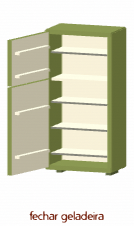
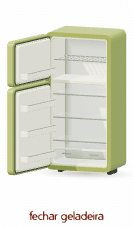
feat(geladeira): refinar materiais e interior e afastar a carta

diff --git a/Kimi_Agent_HIPOCAMPO 3D Interactive Site/hipocampo/public/assets/fridge-showcase.js b/Kimi_Agent_HIPOCAMPO 3D Interactive Site/hipocampo/public/assets/fridge-showcase.js
@@ -13,14 +13,14 @@ export function mountFridgeShowcase(figure) {
   label.textContent = 'abrir geladeira'
   button.append(label)
   figure.append(button)
-  let renderer, scene, camera, model, resize, observer, texture, frame = 0
+  let renderer, scene, camera, model, resize, observer, texture, environment, frame = 0
   let aspect = 1, projectedBounds = null
   let open = false, visible = false, angle = 0, target = 0, previous = 0, disposed = false
   const reduced = matchMedia('(prefers-reduced-motion: reduce)')
   const doors = [], geometries = new Set(), materials = new Set(), maps = new Set()
   const paint = () => {
     if (disposed || !renderer || !visible || document.hidden) return
-    const now = performance.now(), dt = previous ? Math.min((now - previous) / 1000, .05) : 1 / 60
+    const now = performance.now(), dt = previous ? Math.min((now - previous) / 1000, .12) : 1 / 60
     previous = now
     angle = reduced.matches ? target : angle + (target - angle) * (1 - Math.exp(-7 * dt))
     if (Math.abs(target - angle) < .002) angle = target
@@ -51,17 +51,72 @@ export function mountFridgeShowcase(figure) {
   }
   const request = () => { if (renderer && doors.length && !frame && visible && !document.hidden && !disposed) frame = requestAnimationFrame(() => { frame = 0; paint() }) }
   const material = options => { const m = new THREE.MeshStandardMaterial(options); materials.add(m); return m }
-  const green = material({ color: '#8d9b53', roughness: .36, metalness: .22 })
-  const cream = material({ color: '#eee9d4', roughness: .8 })
-  const chrome = material({ color: '#c3c5b8', roughness: .3, metalness: .65 })
-  const dark = material({ color: '#576139', roughness: .7 })
-  const box = (parent, w, h, d, mat, x = 0, y = 0, z = 0) => {
-    const geometry = new THREE.BoxGeometry(w, h, d)
-    geometries.add(geometry)
-    const mesh = new THREE.Mesh(geometry, mat)
-    mesh.position.set(x, y, z)
-    parent.add(mesh)
-    return mesh
+  // A fine, deterministic enamel finish, not an extra photographic replacement.
+  const grainData = new Uint8Array(96 * 96 * 4)
+  let seed = 9431
+  for (let i = 0; i < grainData.length; i += 4) {
+    seed = (seed * 1664525 + 1013904223) >>> 0
+    const v = 220 + (seed % 30)
+    grainData[i] = grainData[i + 1] = grainData[i + 2] = v; grainData[i + 3] = 255
+  }
+  const grain = new THREE.DataTexture(grainData, 96, 96, THREE.RGBAFormat)
+  grain.wrapS = grain.wrapT = THREE.RepeatWrapping; grain.needsUpdate = true; maps.add(grain)
+  const green = material({ color: '#89934a', roughness: .26, metalness: .17, bumpMap: grain, bumpScale: .003, envMapIntensity: .7 })
+  const cream = material({ color: '#e5dfc8', roughness: .43, bumpMap: grain, bumpScale: .002, envMapIntensity: .35 })
+  const chrome = material({ color: '#d4d4ca', roughness: .17, metalness: .92, envMapIntensity: 1.2 })
+  const dark = material({ color: '#383b2d', roughness: .82 })
+  const glass = material({ color: '#c8d4cc', roughness: .12, metalness: .2, transparent: true, opacity: .28, depthWrite: false })
+  const track = geometry => { geometries.add(geometry); return geometry }
+  const mesh = (parent, geometry, mat, x = 0, y = 0, z = 0) => {
+    const item = new THREE.Mesh(track(geometry), mat)
+    item.position.set(x, y, z); item.castShadow = mat !== glass; item.receiveShadow = true
+    parent.add(item); return item
+  }
+  const box = (parent, w, h, d, mat, x = 0, y = 0, z = 0) => mesh(parent, new THREE.BoxGeometry(w, h, d), mat, x, y, z)
+  const outline = (w, h, radius) => {
+    const r = Math.min(radius, w / 2, h / 2), x = -w / 2, y = -h / 2
+    const shape = new THREE.Shape()
+    shape.moveTo(x + r, y); shape.lineTo(x + w - r, y)
+    shape.quadraticCurveTo(x + w, y, x + w, y + r); shape.lineTo(x + w, y + h - r)
+    shape.quadraticCurveTo(x + w, y + h, x + w - r, y + h); shape.lineTo(x + r, y + h)
+    shape.quadraticCurveTo(x, y + h, x, y + h - r); shape.lineTo(x, y + r)
+    shape.quadraticCurveTo(x, y, x + r, y)
+    return shape
+  }
+  const rounded = (parent, w, h, d, radius, mat, x = 0, y = 0, z = 0) => {
+    const bevel = Math.min(.025, d / 3, radius / 2)
+    const g = new THREE.ExtrudeGeometry(outline(w - bevel * 2, h - bevel * 2, Math.max(.005, radius - bevel)), {
+      depth: d - bevel * 2, bevelEnabled: true, bevelSize: bevel, bevelThickness: bevel, bevelSegments: 3, curveSegments: 5, steps: 1,
+    })
+    g.translate(0, 0, -d / 2 + bevel)
+    return mesh(parent, g, mat, x, y, z)
+  }
+  const rim = (parent, w, h, d, radius, wall, mat, x = 0, y = 0, z = 0) => {
+    const shape = outline(w, h, radius)
+    shape.holes.push(new THREE.Path(outline(w - wall * 2, h - wall * 2, Math.max(.025, radius - wall)).getPoints(5).reverse()))
+    const g = new THREE.ExtrudeGeometry(shape, { depth: d, bevelEnabled: false, curveSegments: 5, steps: 1 })
+    g.translate(0, 0, -d / 2)
+    return mesh(parent, g, mat, x, y, z)
+  }
+  const rod = (parent, points, radius, mat) => mesh(parent, new THREE.TubeGeometry(new THREE.CatmullRomCurve3(points.map(p => new THREE.Vector3(...p))), 12, radius, 6, false), mat)
+  const facade = (parent, w, h, map, x, z) => {
+    const g = new THREE.ShapeGeometry(outline(w, h, .07), 8)
+    const positions = g.attributes.position, uv = g.attributes.uv
+    for (let i = 0; i < positions.count; i++) uv.setXY(i, (positions.getX(i) + w / 2) / w, (positions.getY(i) + h / 2) / h)
+    // Preserve the photographed patina and reflections on the front doors.
+    const face = new THREE.MeshBasicMaterial({ map, toneMapped: false })
+    materials.add(face); return mesh(parent, g, face, x, 0, z)
+  }
+  const makeEnvironment = () => {
+    const studio = new THREE.Scene(); studio.background = new THREE.Color('#a5ada4')
+    const white = new THREE.MeshBasicMaterial({ color: new THREE.Color(4, 4, 3.8), side: THREE.DoubleSide })
+    materials.add(white)
+    for (const [x, y, z, w, h] of [[-4, 2, 3, 3, 6], [3, 3, 1, 2, 5], [0, 5, -2, 5, 3]]) {
+      const panel = mesh(studio, new THREE.PlaneGeometry(w, h), white, x, y, z); panel.lookAt(0, 0, 0)
+    }
+    const pmrem = new THREE.PMREMGenerator(renderer)
+    environment = pmrem.fromScene(studio, .06)
+    scene.environment = environment.texture; pmrem.dispose()
   }
   const setSize = () => {
     if (!renderer) return
@@ -85,6 +140,8 @@ export function mountFridgeShowcase(figure) {
       renderer = new THREE.WebGLRenderer({ alpha: true, antialias: true, powerPreference: 'low-power' })
       renderer.setPixelRatio(Math.min(devicePixelRatio || 1, 1.25))
       renderer.outputColorSpace = THREE.SRGBColorSpace
+      renderer.toneMapping = THREE.ACESFilmicToneMapping; renderer.toneMappingExposure = 1.05
+      renderer.shadowMap.enabled = true; renderer.shadowMap.type = THREE.PCFSoftShadowMap
       renderer.setClearColor(0xffffff, 0)
       renderer.domElement.className = 'fridge-showcase-canvas'
       renderer.domElement.setAttribute('aria-hidden', 'true')
@@ -93,22 +150,69 @@ export function mountFridgeShowcase(figure) {
       camera = new THREE.OrthographicCamera(-1.5, 1.5, 2, -2, .1, 30)
       camera.position.set(2.5, 1.1, 7)
       camera.lookAt(0, 0, .35)
-      scene.add(new THREE.HemisphereLight(0xffffff, 0xb8b29d, 2.5))
-      const light = new THREE.DirectionalLight(0xffffff, 2.2)
-      light.position.set(-3, 5, 6); scene.add(light)
+      makeEnvironment()
+      scene.add(new THREE.HemisphereLight(0xe8efff, 0x716b52, .75))
+      const light = new THREE.DirectionalLight(0xfff1d9, 3)
+      light.position.set(-3, 5, 6); light.castShadow = true
+      light.shadow.mapSize.set(512, 512)
+      Object.assign(light.shadow.camera, { left: -3, right: 3, top: 4, bottom: -3, near: .5, far: 15 })
+      light.shadow.normalBias = .025; light.shadow.bias = -.00015
+      scene.add(light)
+      const fill = new THREE.DirectionalLight(0xc9dcff, .5); fill.position.set(3, 1, 1); scene.add(fill)
       const body = new THREE.Group(); model = body; scene.add(body)
-      box(body, 1.5, 3, .13, green, 0, 0, -.38)
-      box(body, .1, 3, .9, green, -.72, 0, 0)
-      box(body, .1, 3, .9, green, .72, 0, 0)
-      box(body, 1.5, .1, .9, green, 0, 1.47, 0)
-      box(body, 1.5, .1, .9, green, 0, -1.47, 0)
-      box(body, 1.3, 2.82, .03, cream, 0, 0, -.29)
-      box(body, 1.3, .055, .7, cream, 0, .43, .02)
-      for (const y of [-1.18, -.62, -.06, 1.02]) {
-        box(body, 1.3, .045, .7, cream, 0, y, .02)
-        box(body, 1.3, .035, .035, chrome, 0, y, .39)
+      // Rounded cabinet and continuous inner liner replace the flat box walls.
+      rim(body, 1.52, 3.02, .94, .15, .095, green)
+      rim(body, 1.32, 2.82, .79, .10, .035, cream, 0, 0, .015)
+      rounded(body, 1.33, 2.83, .10, .11, green, 0, 0, -.45)
+      // Baked corner shading combines with real light/shadows inside the cavity.
+      const aoData = new Uint8Array(128 * 256 * 4)
+      for (let y = 0; y < 256; y++) for (let x = 0; x < 128; x++) {
+        const edge = Math.min(x / 128, 1 - x / 128, y / 256, 1 - y / 256)
+        const v = Math.round(175 + 70 * Math.min(1, edge / .13)), i = (y * 128 + x) * 4
+        aoData[i] = v; aoData[i + 1] = v - 3; aoData[i + 2] = v - 12; aoData[i + 3] = 255
       }
-      for (const x of [-.57, .57]) box(body, .12, .15, .45, dark, x, -1.55, -.1)
+      const backMap = new THREE.DataTexture(aoData, 128, 256, THREE.RGBAFormat)
+      backMap.colorSpace = THREE.SRGBColorSpace; backMap.needsUpdate = true; maps.add(backMap)
+      const back = material({ map: backMap, roughness: .58 })
+      mesh(body, new THREE.PlaneGeometry(1.25, 2.73), back, 0, 0, -.385)
+      rounded(body, 1.30, .075, .77, .025, cream, 0, .43, .015)
+      // Frost compartment: wire rack and its mounting points.
+      for (let x = -.55; x <= .56; x += .11) rod(body, [[x, .89, -.3], [x, .89, .34]], .009, chrome)
+      for (const z of [-.29, .33]) box(body, 1.22, .018, .018, chrome, 0, .89, z)
+      // Glass shelves with polished front edges and individual supports.
+      for (const y of [-.88, -.37, .14]) {
+        rounded(body, 1.25, .022, .70, .006, glass, 0, y, .015)
+        rounded(body, 1.25, .025, .025, .008, chrome, 0, y, .365)
+        for (const x of [-.61, .61]) rounded(body, .045, .09, .25, .012, cream, x, y - .04, -.03)
+      }
+      // Separate translucent crisper drawers, with lips and pull handles.
+      for (const x of [-.315, .315]) {
+        rounded(body, .59, .34, .61, .04, glass, x, -1.23, .02)
+        rounded(body, .59, .045, .045, .013, cream, x, -1.06, .34)
+        rounded(body, .21, .025, .025, .008, chrome, x, -1.16, .35)
+      }
+      const knob = mesh(body, new THREE.CylinderGeometry(.065, .065, .04, 16), cream, .60, .28, -.03)
+      knob.rotation.z = Math.PI / 2
+      box(body, .008, .012, .06, dark, .626, .30, -.03)
+      const bulb = material({ color: '#fff1c5', emissive: '#ffe6a5', emissiveIntensity: .8, roughness: .35 })
+      rounded(body, .11, .075, .09, .025, bulb, .57, .34, .14)
+      const insideLight = new THREE.PointLight(0xffedc9, .18, 1.6, 2)
+      insideLight.position.set(.48, .28, .12); body.add(insideLight)
+      for (const x of [-.57, .57]) rounded(body, .10, .13, .38, .02, dark, x, -1.55, -.1)
+      for (const y of [-1.31, .53, 1.32]) mesh(body, new THREE.CylinderGeometry(.028, .028, .14, 12), chrome, -.76, y, .43)
+      // Soft contact shadow fades to transparency instead of a clipped floor edge.
+      const shadowData = new Uint8Array(64 * 64 * 4)
+      for (let y = 0; y < 64; y++) for (let x = 0; x < 64; x++) {
+        const radius = Math.hypot((x - 31.5) / 31.5, (y - 31.5) / 31.5), i = (y * 64 + x) * 4
+        shadowData[i] = shadowData[i + 1] = shadowData[i + 2] = 255
+        shadowData[i + 3] = Math.round(255 * Math.pow(Math.max(0, 1 - radius), 1.5))
+      }
+      const shadowMap = new THREE.DataTexture(shadowData, 64, 64, THREE.RGBAFormat)
+      shadowMap.magFilter = THREE.LinearFilter; shadowMap.needsUpdate = true; maps.add(shadowMap)
+      const shadowMaterial = new THREE.MeshBasicMaterial({ map: shadowMap, color: '#48402d', transparent: true, opacity: .3, depthWrite: false })
+      materials.add(shadowMaterial)
+      const floor = mesh(scene, new THREE.PlaneGeometry(2.6, 1.8), shadowMaterial, 0, -1.62, .06)
+      floor.rotation.x = -Math.PI / 2; floor.castShadow = false
       texture = await new THREE.TextureLoader().loadAsync(photo.src)
       if (disposed) { texture.dispose(); return }
       texture.colorSpace = THREE.SRGBColorSpace
@@ -118,12 +222,22 @@ export function mountFridgeShowcase(figure) {
         map.repeat.set(108 / 146, imageHeight / 248)
         map.offset.set(13 / 146, (248 - imageTop - imageHeight) / 248)
         map.needsUpdate = true; maps.add(map)
-        const facade = material({ map, roughness: .48, metalness: .12 })
-        const hinge = new THREE.Group(); hinge.position.set(-.72, y, .48)
+        const hinge = new THREE.Group(); hinge.position.set(-.72, y, .49)
         body.add(hinge); doors.push(hinge)
-        box(hinge, 1.44, h, .105, [green, green, green, green, facade, cream], .72)
-        box(hinge, .48, .045, .075, chrome, .38, -h * .25, .095)
-        for (const shelfY of [-h * .3, h * .2]) box(hinge, 1.18, .06, .14, cream, .72, shelfY, -.1)
+        rounded(hinge, 1.44, h, .17, .10, green, .72)
+        facade(hinge, 1.405, h - .025, map, .72, .101)
+        rim(hinge, 1.37, h - .075, .024, .075, .022, dark, .72, 0, -.094)
+        rim(hinge, 1.31, h - .13, .018, .065, .014, cream, .72, 0, -.111)
+        rounded(hinge, 1.26, h - .17, .08, .075, cream, .72, 0, -.13)
+        // Rounded door pockets: inner floor, sides and a retaining rail.
+        for (const shelfY of h > 1.5 ? [-.66, -.10, .46] : [-.32]) {
+          rounded(hinge, 1.1, .035, .21, .012, cream, .72, shelfY, -.24)
+          rounded(hinge, 1.1, .12, .035, .014, cream, .72, shelfY + .055, -.34)
+          for (const x of [.18, 1.26]) rounded(hinge, .035, .13, .21, .012, cream, x, shelfY + .05, -.24)
+          rounded(hinge, 1.09, .018, .025, .006, chrome, .72, shelfY + .12, -.34)
+        }
+        const handleY = h > 1.5 ? .74 : -.35
+        rod(hinge, [[.16, handleY, .11], [.21, handleY + .018, .19], [.57, handleY + .018, .19], [.62, handleY, .11]], .025, chrome)
       }
       renderer.domElement.addEventListener('webglcontextlost', lost)
       resize = new ResizeObserver(setSize); resize.observe(button)
@@ -151,7 +265,8 @@ export function mountFridgeShowcase(figure) {
     button.removeEventListener('click', click)
     renderer?.domElement.removeEventListener('webglcontextlost', lost)
     maps.forEach(map => map.dispose()); geometries.forEach(g => g.dispose()); materials.forEach(m => m.dispose())
-    renderer?.dispose()
+    scene?.traverse(item => { if (item.isLight && item.shadow) item.shadow.dispose() })
+    environment?.dispose(); renderer?.dispose()
     window.removeEventListener('pagehide', cleanup)
   }
   observer = new IntersectionObserver(entries => {

diff --git a/Kimi_Agent_HIPOCAMPO 3D Interactive Site/hipocampo/index.html b/Kimi_Agent_HIPOCAMPO 3D Interactive Site/hipocampo/index.html
@@ -2,7 +2,7 @@
 <html lang="pt-BR">
   <head>
     <meta charset="UTF-8" />
-    <meta name="hipocampo-release" content="mobile-menu-spacing-20261116-1" />
+    <meta name="hipocampo-release" content="realistic-fridge-20261116-2" />
     <meta name="viewport" content="width=device-width, initial-scale=1.0" />
     <meta
       name="description"
@@ -21,11 +21,11 @@
     <link rel="stylesheet" href="/assets/page2-motion.css?v=audio-updates-1" />
     <link rel="stylesheet" href="/assets/house-preparation.css?v=house-gpu-2" />
     <link rel="stylesheet" href="/assets/page3-house.css?v=silent-house-1" />
-    <link rel="stylesheet" href="/assets/page4-sobre.css?v=portrait-larger-1" />
+    <link rel="stylesheet" href="/assets/page4-sobre.css?v=realistic-enamel-2" />
     <link rel="stylesheet" href="/assets/page5-vestigios.css?v=simulation-layout-1" />
     <link rel="stylesheet" href="/assets/installation-room.css?v=type-installation-1" />
     <link rel="stylesheet" href="/assets/client-update.css?v=kise-link-underline-1" />
-    <link rel="stylesheet" href="/assets/mobile-layout.css?v=mobile-menu-spacing-1" />
+    <link rel="stylesheet" href="/assets/mobile-layout.css?v=realistic-enamel-2" />
     <link rel="stylesheet" href="/assets/team-finale.css?v=mobile-menu-spacing-1" />
     <link rel="stylesheet" href="/assets/stories-letter.css?v=audio-updates-1" />
     <!-- Route only the recovered installation chunk to its editable 3D entry.
@@ -45,7 +45,7 @@
     <script type="module" src="/assets/page2-motion.js?v=mobile-title-flourishes-2"></script>
     <script type="module" src="/assets/memory-map.js?v=touch-immersion-1"></script>
     <script type="module" src="/assets/page3-house.js?v=phone-gestures-1"></script>
-    <script type="module" src="/assets/page4-sobre.js?v=fridge-interactive-1"></script>
+    <script type="module" src="/assets/page4-sobre.js?v=realistic-enamel-2"></script>
     <script type="module" src="/assets/page5-vestigios.js?v=reference-copy-1"></script>
     <script type="module" src="/assets/editorial-motion.js?v=films-footer-1"></script>
     <script type="module" src="/assets/photo-trail.js?v=phone-gestures-1"></script>

diff --git a/Kimi_Agent_HIPOCAMPO 3D Interactive Site/hipocampo/public/assets/mobile-layout.css b/Kimi_Agent_HIPOCAMPO 3D Interactive Site/hipocampo/public/assets/mobile-layout.css
@@ -64,8 +64,8 @@
   .page4-text p { margin-bottom: 1.35em; }
   .page4-text strong { font-size: inherit; line-height: inherit; }
   .page4-photos { height: 85vw; max-height: 34rem; margin-top: 1rem; }
-  .page4-photo--envelope { left: 0; right: auto; top: 0; width: 50vw; }
-  .page4-photo--geladeira { right: 2vw; top: 24vw; width: 34vw; }
+  .page4-photo--envelope { left: -1vw; right: auto; top: 0; width: 46vw; }
+  .page4-photo--geladeira { right: 0; top: 26vw; width: 34vw; }
   #sobre .page4-photo--retrato { left: .75rem; width: 28vw; min-width: 74px; transform: translateY(50%); }
   .page4-photo--envelope { touch-action: manipulation; }
 

diff --git a/Kimi_Agent_HIPOCAMPO 3D Interactive Site/hipocampo/public/assets/page4-sobre.css b/Kimi_Agent_HIPOCAMPO 3D Interactive Site/hipocampo/public/assets/page4-sobre.css
@@ -55,7 +55,7 @@
 .page4-photo--retrato { left: 9vw; bottom: 0; width: 13vw; min-width: 80px; aspect-ratio: 393/505; }
 .page4-photo--retrato { box-sizing: border-box; padding: 0; border: 0; background: transparent; }
 .page4-photo--retrato img { object-fit: contain; }
-.page4-photo--envelope { right: 20vw; top: 0; width: 20vw; aspect-ratio: 1; }
+.page4-photo--envelope { right: 25vw; top: 0; width: 20vw; aspect-ratio: 1; }
 .page4-photo--geladeira { right: 8vw; top: 8vw; width: 14vw; aspect-ratio: 146/248; }
 .page4-photo--geladeira img { object-fit: contain; }
 /* Rotate only the paper: its side opening becomes the upper opening.

diff --git a/Kimi_Agent_HIPOCAMPO 3D Interactive Site/hipocampo/public/assets/page4-sobre.js b/Kimi_Agent_HIPOCAMPO 3D Interactive Site/hipocampo/public/assets/page4-sobre.js
@@ -77,7 +77,7 @@ function init() {
   const near = new IntersectionObserver(entries => {
     if (!entries.some(entry => entry.isIntersecting)) return
     near.disconnect()
-    import('./fridge-showcase.js?v=fridge-interactive-1').then(({ mountFridgeShowcase }) => mountFridgeShowcase(fridge)).catch(() => {})
+    import('./fridge-showcase.js?v=realistic-enamel-2').then(({ mountFridgeShowcase }) => mountFridgeShowcase(fridge)).catch(() => {})
   }, { rootMargin: '500px 0px' })
   near.observe(fridge)
   window.dispatchEvent(new Event('resize'))

diff --git a/Kimi_Agent_HIPOCAMPO 3D Interactive Site/hipocampo/scripts/test-fridge-showcase.py b/Kimi_Agent_HIPOCAMPO 3D Interactive Site/hipocampo/scripts/test-fridge-showcase.py
@@ -15,13 +15,16 @@ async def main():
    await p.wait_for_selector('.page4-photo--geladeira.is-3d-ready')
    fig=p.locator('.page4-photo--geladeira');button=fig.locator('button')
    assert await button.get_attribute('aria-pressed')=='false'
+   fridgeBounds=await fig.bounding_box();letterBounds=await p.locator('.page4-photo--envelope').bounding_box()
+   assert fridgeBounds['x']-letterBounds['x']-letterBounds['width']>=24,(fridgeBounds,letterBounds)
    await fig.screenshot(path=str(OUT/f'closed-{w}.png'))
-   await button.click();await p.wait_for_timeout(1500)
+   await button.click();await p.wait_for_function("Math.abs(document.querySelector('.page4-photo--geladeira').fridgeShowcase.getDiagnostics().angle + 1.8) < .002")
    d=await fig.evaluate('e=>e.fridgeShowcase.getDiagnostics()');assert d['open'] and abs(d['angle']+1.8)<.01,d
+   assert d['triangles']<25000,d
    assert d['projectedBounds']['min']>=-.95 and d['projectedBounds']['max']<=.95,d
    await fig.screenshot(path=str(OUT/f'open-{w}.png'))
    a=await fig.evaluate('e=>e.fridgeShowcase.getDiagnostics().frames');await p.wait_for_timeout(250);z=await fig.evaluate('e=>e.fridgeShowcase.getDiagnostics().frames');assert a==z,(a,z)
-   await button.focus();await p.keyboard.press('Space');await p.wait_for_timeout(1500)
+   await button.focus();await p.keyboard.press('Space');await p.wait_for_function("document.querySelector('.page4-photo--geladeira').fridgeShowcase.getDiagnostics().angle === 0")
    assert await button.get_attribute('aria-pressed')=='false'
    await go('#vestigios')
    if w<768:

diff --git a/Kimi_Agent_HIPOCAMPO 3D Interactive Site/hipocampo/design-qa.md b/Kimi_Agent_HIPOCAMPO 3D Interactive Site/hipocampo/design-qa.md
@@ -840,3 +840,12 @@ final result: passed
 - Acrescentada margem acima do Instagram nos dois rodapés mobile para separar o link dos traços da marca Hipocampo.
 - Build/diff e Chromium em 390×844, 320×568, 740×390 e 1440×900 aprovados: links sem sobreposição, alvos dentro da viewport, fechamento após navegação/Escape e pelo menos 24px adicionais de distância entre o link e o bloco da marca no rodapé.
 - Capturas inspecionadas: `docs/mobile-menu-separated.png` e `docs/mobile-footer-instagram-spacing.png`.
+
+### 2026-11-16 — acabamento realista da geladeira e afastamento da carta
+- Carta deslocada 5vw para a esquerda no desktop; no mobile, composição da carta reduzida de 50vw para 46vw e geladeira deslocada para a direita/um pouco abaixo. Conferido intervalo mínimo de 24px entre suas caixas em 1440/390px.
+- Substituída a construção de caixas retas por carcaça e portas arredondadas, revestimento interno contínuo, borrachas de vedação, dobradiças, puxadores curvos, porta-prateleiras, vidro, gavetas, termostato e luminária interna. Imagem original preservada como textura das frentes, sem recompressão ou nova geração da fotografia.
+- Materiais de esmalte/metal recebem microrrelevo, reflexos de estúdio e sombras internas. Fundo da cavidade recebe escurecimento de contato; sombra de apoio difusa evita recorte duro no fundo branco. Iluminação e ambiente calculados localmente, sem baixar imagens externas.
+- Modelo com 21.200 triângulos, sombra 512px e DPR máximo 1,25. Continua renderizando somente em transições/resize e parando em repouso ou fora da tela. Ambiente e mapas de sombra descartados na limpeza.
+- Build, sintaxe e diff aprovados. `scripts/test-fridge-showcase.py` passa em 1440×900/390×844: distância entre carta/geladeira, abertura, fechamento por teclado, enquadramento sem cortes, orçamento abaixo de 25 mil triângulos, parada da renderização e alinhamento do texto/câmera. Aguarda estado final da porta em vez de supor um FPS fixo do navegador de teste.
+- Preferência por movimento reduzido e perda de contexto com retorno à fotografia estática também verificadas. Evidências atualizadas: `docs/fridge-showcase-closed.png`, `docs/fridge-showcase-open-mobile.png`, `docs/fridge-showcase-realistic-open.png`.
+- final result: passed
